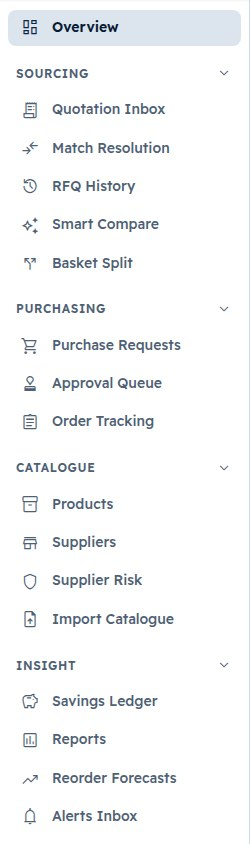
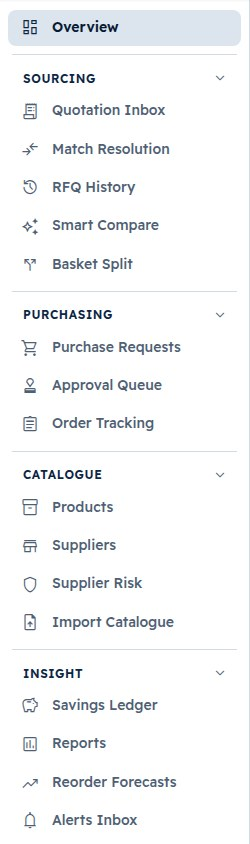
feat(web): make sidebar groups visually distinct (PPS-52) (#258)
* feat(web): make sidebar groups visually distinct (PPS-52)

The group headings were 12px muted grey with no separation, so the
five groups blended into the link list. Now:

- a divider and spacing before each group
- headings in strong text
- the group holding the current route is teal (--pp-teal-700, 5.3:1
  on white) with a 3px inline-start bar, so it mirrors in RTL
- a hover surface and a --pp-focus outline on enabled headings

Behaviour is unchanged. docs/design/design-system.html (App shell)
shows the same style.

* docs(user): regenerate the sidebar screenshot (PPS-52)

Taken from CI's regenerated-doc-screenshots artifact (run 40127242967).
Only 02b-sidebar-navigation crossed the 1% drift limit (7.3%); the other
nine images differ by render noise only and are left as committed.

---------

diff --git a/docs/design/design-system.html b/docs/design/design-system.html
@@ -781,7 +781,12 @@ dialog.real::backdrop{background:var(--pp-dialog-scrim)}
 .nav .count{margin-inline-start:auto; font-size:var(--pp-text-12); color:var(--pp-nav-count-fg)}
 .nav a[aria-current="page"] .count{color:inherit}
 .nav-sep{block-size:1px; background:var(--pp-border); margin-block:var(--pp-space-3)}
-.nav-group-btn{display:flex; align-items:center; justify-content:space-between; inline-size:100%; padding:var(--pp-space-3) var(--pp-space-2) var(--pp-space-1); margin:0; background:transparent; border:0; font-size:var(--pp-text-12); font-weight:var(--pp-weight-strong); text-transform:uppercase; letter-spacing:0.05em; color:var(--pp-text-muted); cursor:pointer; text-align:start}
+.nav-group-btn{display:flex; align-items:center; justify-content:space-between; inline-size:100%; padding:var(--pp-space-3) var(--pp-space-2) var(--pp-space-1); margin:0; margin-block-start:var(--pp-space-2); background:transparent; border:0; border-block-start:var(--pp-divider-width, 1px) solid var(--pp-divider-color, var(--pp-border)); border-inline-start:3px solid transparent; border-radius:var(--pp-radius-control); font-size:var(--pp-text-12); font-weight:var(--pp-weight-strong); text-transform:uppercase; letter-spacing:0.05em; color:var(--pp-text-strong); cursor:pointer; text-align:start; box-sizing:border-box}
+.nav-group-btn:not(:disabled):hover{background:var(--pp-surface-sunken)}
+.nav-group-btn:focus-visible{outline:2px solid var(--pp-focus); outline-offset:2px}
+.nav-group-btn:disabled{cursor:default; opacity:1}
+.nav-group-btn.nav-group--active, .nav-group-btn.nav-group--active svg{color:var(--pp-teal-700)}
+.nav-group-btn.nav-group--active{border-inline-start-color:var(--pp-teal-700)}
 .nav-group-btn svg{inline-size:14px; block-size:14px; color:var(--pp-text-muted); transition:transform 150ms ease}
 .nav-group-btn[aria-expanded="false"] svg{transform:rotate(-90deg)}
 :root[dir="rtl"] .nav-group-btn[aria-expanded="false"] svg{transform:rotate(90deg)}
@@ -1761,7 +1766,7 @@ dialog.real::backdrop{background:var(--pp-dialog-scrim)}
         <aside class="side" aria-label="Main navigation" data-ar-label="التنقّل الرئيسي">
           <a class="brand" href="#shell"><span class="pp-logo" data-kind="full" style="--pp-logo-h:24px"><svg role="img" aria-label="ProcurePilot" viewBox="0 0 956.7 220"><use href="#pp-logo-en"/></svg></span></a>
           <button class="tenant" type="button"><span><span data-ar="مجموعة مطابخ النيل">Nile Kitchens Group</span><small data-ar="٤ فروع، ج.م.">4 branches, EGP</small></span><svg width="16" height="16" aria-hidden="true"><use href="#i-down"/></svg></button>
-          <button class="nav-group-btn" type="button" aria-expanded="true" aria-controls="shell-grp-purchasing"><span data-ar="الشراء">Purchasing</span><svg aria-hidden="true"><use href="#i-down"/></svg></button>
+          <button class="nav-group-btn nav-group--active" type="button" aria-expanded="true" aria-controls="shell-grp-purchasing" disabled><span data-ar="الشراء">Purchasing</span><svg aria-hidden="true"><use href="#i-down"/></svg></button>
           <ul class="nav" id="shell-grp-purchasing">
             <li><a href="#shell"><svg><use href="#i-req"/></svg><span data-ar="طلبات الشراء">Requests</span></a></li>
             <li><a href="#shell" aria-current="page"><svg><use href="#i-check"/></svg><span data-ar="الموافقات">Approvals</span><span class="count num" data-ar="٣">3</span></a></li>

diff --git a/apps/web/src/app/layout/shell/shell.component.spec.ts b/apps/web/src/app/layout/shell/shell.component.spec.ts
@@ -255,6 +255,35 @@ describe('ShellComponent account menu', () => {
       expect(sourcingItems.hidden).toBeFalse();
     });
 
+    it('applies nav-group--active only to the group owning the current route', async () => {
+      const router = TestBed.inject(Router);
+      const root = fixture.nativeElement as HTMLElement;
+
+      await router.navigateByUrl('/requests');
+      fixture.detectChanges();
+
+      const purchasingGroup = root.querySelector('#nav-group-purchasing')?.closest('.nav-group');
+      const sourcingGroup = root.querySelector('#nav-group-sourcing')?.closest('.nav-group');
+      const catalogueGroup = root.querySelector('#nav-group-catalogue')?.closest('.nav-group');
+      const insightGroup = root.querySelector('#nav-group-insight')?.closest('.nav-group');
+      const setupGroup = root.querySelector('#nav-group-setup')?.closest('.nav-group');
+
+      expect(purchasingGroup?.classList.contains('nav-group--active')).toBeTrue();
+      expect(sourcingGroup?.classList.contains('nav-group--active')).toBeFalse();
+      expect(catalogueGroup?.classList.contains('nav-group--active')).toBeFalse();
+      expect(insightGroup?.classList.contains('nav-group--active')).toBeFalse();
+      expect(setupGroup?.classList.contains('nav-group--active')).toBeFalse();
+
+      await router.navigateByUrl('/quotations');
+      fixture.detectChanges();
+
+      expect(purchasingGroup?.classList.contains('nav-group--active')).toBeFalse();
+      expect(sourcingGroup?.classList.contains('nav-group--active')).toBeTrue();
+      expect(catalogueGroup?.classList.contains('nav-group--active')).toBeFalse();
+      expect(insightGroup?.classList.contains('nav-group--active')).toBeFalse();
+      expect(setupGroup?.classList.contains('nav-group--active')).toBeFalse();
+    });
+
     it('expands owning group and disables toggle on child routes like /analyst/:id and /rfq/compare/:id', async () => {
       const router = TestBed.inject(Router);
       localStorage.setItem('pp.sidebar.collapsed', JSON.stringify(['insight', 'sourcing']));

diff --git a/apps/web/src/app/layout/shell/shell.component.scss b/apps/web/src/app/layout/shell/shell.component.scss
@@ -123,25 +123,54 @@
   flex-direction: column;
 }
 
-.nav-section-title,
+.nav-section-title {
+  font-size: var(--pp-text-12, 0.75rem);
+  font-weight: var(--pp-weight-strong, 600);
+  text-transform: uppercase;
+  letter-spacing: 0.05em;
+  color: var(--pp-text-strong);
+  padding-block: 0.625rem 0.25rem;
+  padding-inline: 0.75rem;
+}
+
 .menu-section-header {
   font-size: 0.75rem;
   font-weight: 600;
   text-transform: uppercase;
   letter-spacing: 0.05em;
   color: t.$text-muted;
-}
-
-.nav-section-title {
-  padding: 1rem 1rem 0.5rem;
-}
-
-.menu-section-header {
   padding: 0.5rem 1rem 0.25rem;
 }
 
 .nav-home-wrap {
   padding-block-start: 0.5rem;
+}
+
+.nav-group {
+  margin-block-start: 0.5rem;
+
+  &::before {
+    content: '';
+    display: block;
+    border-block-start: var(--pp-divider-width, 1px) solid var(--pp-divider-color, var(--pp-border));
+    margin-inline: 0.75rem;
+    margin-block-end: 0.25rem;
+  }
+
+  &.nav-group--active {
+    .nav-section-title,
+    .nav-group-title-text {
+      color: var(--pp-teal-700);
+    }
+
+    .nav-group-chevron {
+      color: var(--pp-teal-700);
+    }
+
+    .nav-group-toggle {
+      border-inline-start-color: var(--pp-teal-700);
+    }
+  }
 }
 
 .nav-group-heading {
@@ -155,15 +184,29 @@
   display: flex;
   align-items: center;
   justify-content: space-between;
-  inline-size: 100%;
+  inline-size: calc(100% - 1rem);
+  margin-inline: 0.5rem;
+  border-radius: var(--pp-radius-control, 8px);
   background: transparent;
   border: 0;
+  border-inline-start: 3px solid transparent;
   cursor: pointer;
   text-align: start;
   font-family: inherit;
+  box-sizing: border-box;
+
+  &:not(:disabled):hover {
+    background-color: var(--pp-surface-sunken);
+  }
+
+  &:focus-visible {
+    outline: 2px solid var(--pp-focus);
+    outline-offset: 2px;
+  }
 
   &:disabled {
     cursor: default;
+    opacity: 1;
   }
 }
 

diff --git a/apps/web/src/app/layout/shell/shell.component.html b/apps/web/src/app/layout/shell/shell.component.html
@@ -127,7 +127,7 @@
       </div>
 
       @for (group of navGroups; track group.id) {
-        <div class="nav-group">
+        <div class="nav-group" [class.nav-group--active]="isGroupActive(group.id)">
           <h2 class="nav-group-heading">
             <button
               type="button"
